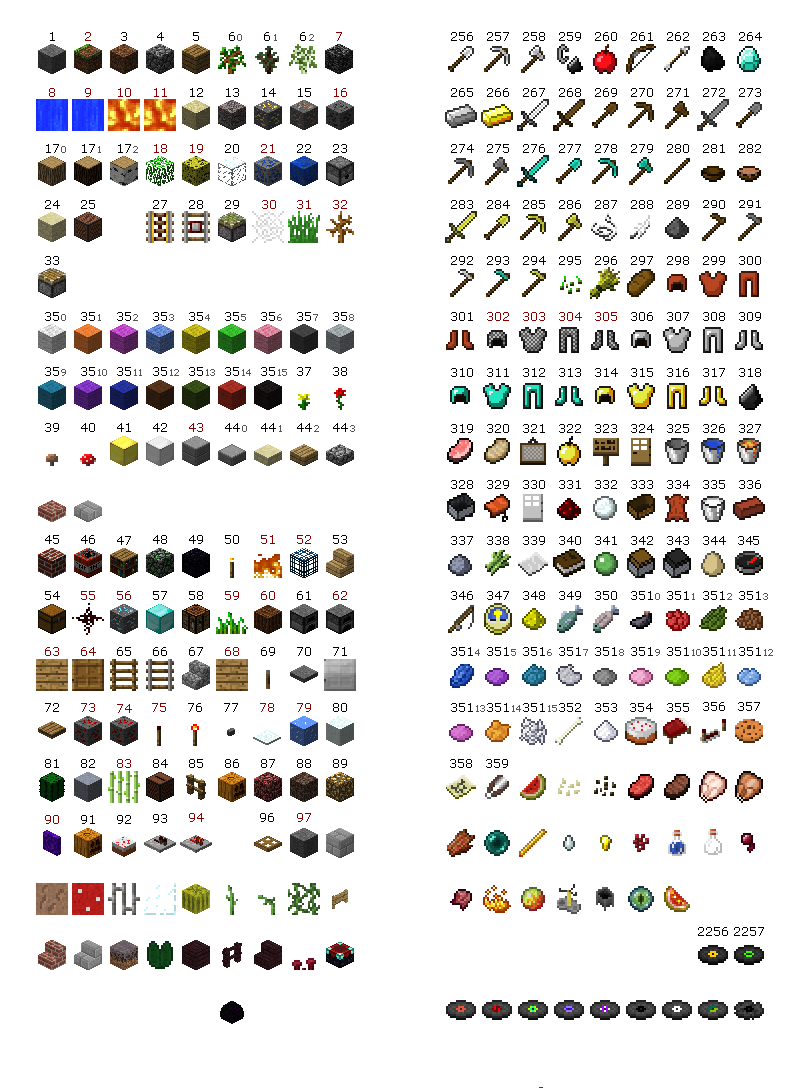
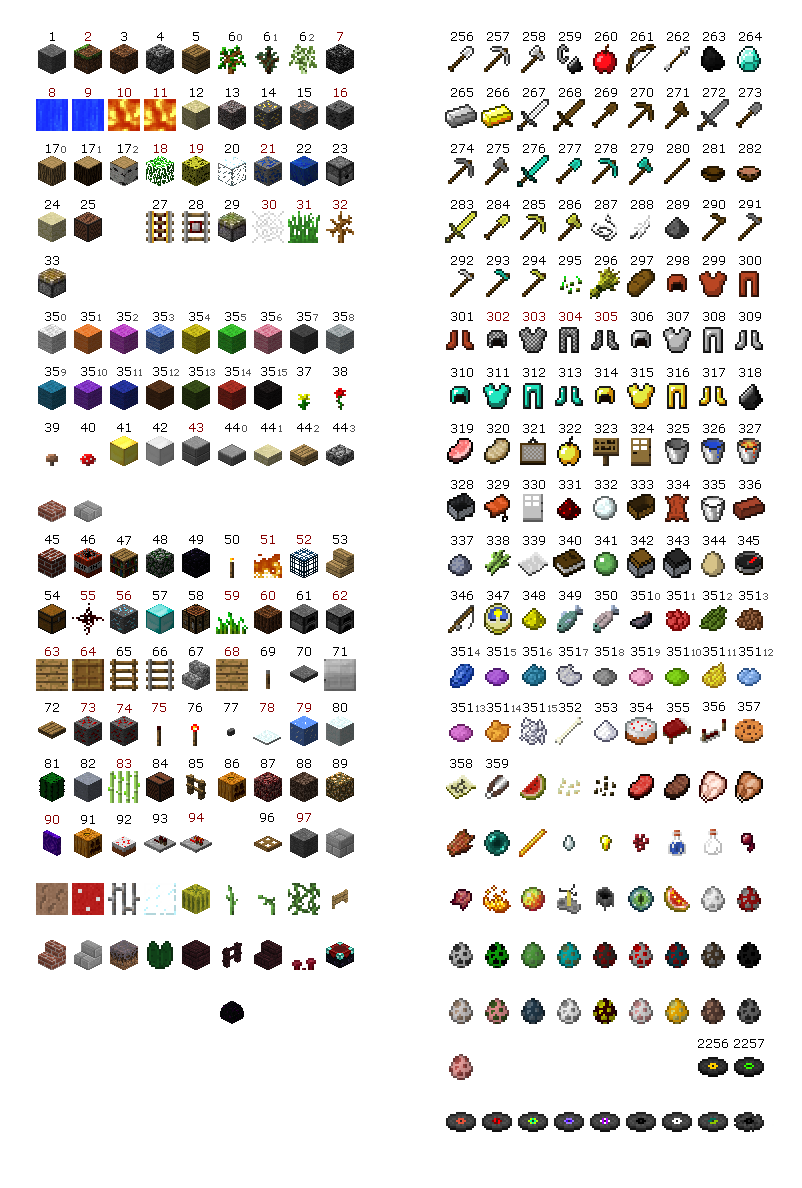
Add Minecraft 1.1 items & enchantments.

Changed region(s): [[0.5299, 0.0312, 0.9663, 0.9688], [0.0312, 0.0312, 0.4676, 0.9375]]

diff --git a/Classes/IJInventoryItem.m b/Classes/IJInventoryItem.m
@@ -80,6 +80,12 @@
     return [NSString stringWithFormat:@"%hi", self.itemId];
 }
 
++ (NSString *)enchantmentNameForId:(NSNumber *)aId
+{
+  NSDictionary *enchantment = [[IJInventoryItem enchantmentLookup] objectForKey:aId];
+  return [enchantment objectForKey:@"Name"];
+}
+
 + (NSImage *)imageForItemId:(uint16_t)itemId withDamage:(uint16_t)damage
 {
   NSSize itemImageSize = NSMakeSize(32, 32);
@@ -135,7 +141,7 @@
     atlasOffset = NSMakePoint(36, 75);
   }
   // Items
-  else if (itemId >= 256 && itemId <= 382)
+  else if (itemId >= 256 && itemId <= 383)
   {
     index = itemId - 256;
     if (itemId >= 352 && itemId <= 382)
@@ -145,12 +151,39 @@
         damage = 0;
       index = itemId - 256 + damage;
     }
+    if (itemId == 383) {
+      int offset = 0;
+      if (damage == 50) offset = 3;
+      if (damage == 51) offset = 2;
+      if (damage == 52) offset = 6;
+      if (damage == 54) offset = 5;
+      if (damage == 55) offset = 4;
+      
+      if (damage == 56) offset = 14;
+      if (damage == 57) offset = 12;
+      if (damage == 58) offset = 10;
+      if (damage == 59) offset = 8;
+      if (damage == 60) offset = 19;
+      if (damage == 61) offset = 17;
+      if (damage == 62) offset = 15;
+      if (damage == 90) offset = 20;
+      if (damage == 91) offset = 16;
+      if (damage == 92) offset = 9;
+      if (damage == 93) offset = 7;
+      if (damage == 94) offset = 13;
+      if (damage == 95) offset = 11;
+      if (damage == 96) offset = 1;
+      if (damage == 120) offset = 18;
+      
+      index = itemId - 241 + offset;
+    }
     
     atlasOffset = NSMakePoint(445, 75);
   }
+  // Records
   else if (itemId >= 2256 && itemId <= 2266 )
   {
-    index = itemId - 2222;
+    index = itemId - 2204;
     atlasOffset = NSMakePoint(445, pixelsPerRow*14+18);
   }
   else
@@ -192,19 +225,18 @@
 - (NSImage *)image
 {
   NSImage *itemImage = [IJInventoryItem imageForItemId:itemId withDamage:damage];  
-  NSImage *overlayImage = [NSImage imageNamed:@"Enchanted_Overlay"];
   
   // Is the item enchanted or does it have a special data value?
   // ex: golden apples, bottles with damage over 1
-  if ([self.dataTag objectForKey:@"ench"] || self.itemId == 322 || (self.itemId == 373 && self.damage >= 1))
-  {
+  if ([self.dataTag objectForKey:@"ench"] || self.itemId == 322 || (self.itemId == 373 && self.damage >= 1)) {
     NSImage *tempImage = [itemImage copy];
-    [tempImage lockFocus];
-    [overlayImage drawInRect:NSMakeRect(0, 0, itemImage.size.width, itemImage.size.height) fromRect:NSZeroRect operation:NSCompositeSourceIn fraction:1.0];
+    [tempImage lockFocus];    
+    [[NSColor purpleColor] set];
+    NSRectFillUsingOperation(NSMakeRect(0, 0, itemImage.size.width, itemImage.size.height), NSCompositeSourceIn);
     [tempImage unlockFocus];
     
     [itemImage lockFocus];
-    [tempImage drawInRect:NSMakeRect(0, 0, itemImage.size.width, itemImage.size.height) fromRect:NSZeroRect operation:NSCompositePlusLighter fraction:0.8];
+    [tempImage drawInRect:NSMakeRect(0, 0, itemImage.size.width, itemImage.size.height) fromRect:NSZeroRect operation:NSCompositePlusLighter fraction:0.7];
     [itemImage unlockFocus];
     [tempImage release];
   }

diff --git a/Classes/InsideJobAppDelegate.m b/Classes/InsideJobAppDelegate.m
@@ -19,7 +19,7 @@
 
 - (NSApplicationTerminateReply)applicationShouldTerminate:(NSApplication *)sender
 {
-	BOOL shouldClose = [inventoryWindowController windowShouldClose:nil];
+	BOOL shouldClose = [inventoryWindowController windowShouldClose:inventoryWindowController.window];
 	if (shouldClose)
 		return NSTerminateNow;
 	else

diff --git a/Classes/IJInventoryItem.h b/Classes/IJInventoryItem.h
@@ -37,6 +37,7 @@
 
 + (NSDictionary *)itemIdLookup;
 + (NSDictionary *)enchantmentLookup;
++ (NSString *)enchantmentNameForId:(NSNumber *)aId;
 
 + (NSImage *)imageForItemId:(uint16_t)itemId withDamage:(uint16_t)damage;
 
